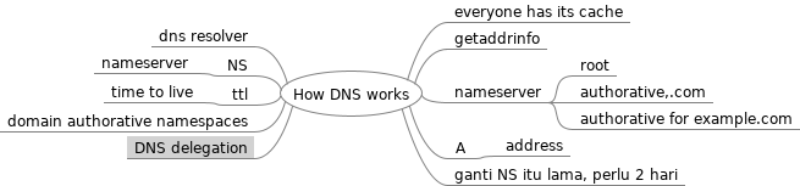
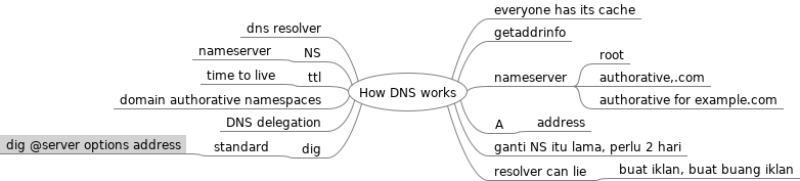
update lecture notes

Changed region(s): [[0.0, 0.0276, 1.0, 1.0]]

diff --git a/How DNS works.mm b/How DNS works.mm
@@ -21,5 +21,13 @@
 <node CREATED="1650814169514" ID="ID_1921902670" MODIFIED="1650814176871" POSITION="left" TEXT="domain authorative namespaces"/>
 <node CREATED="1650814393568" ID="ID_1388149930" MODIFIED="1650814403113" POSITION="right" TEXT="ganti NS itu lama, perlu 2 hari"/>
 <node CREATED="1650964176213" ID="ID_1716537538" MODIFIED="1650964180154" POSITION="left" TEXT="DNS delegation"/>
+<node CREATED="1651852509340" ID="ID_576816594" MODIFIED="1651852513444" POSITION="right" TEXT="resolver can lie">
+<node CREATED="1651852513744" ID="ID_619127418" MODIFIED="1651852520077" TEXT="buat iklan, buat buang iklan"/>
+</node>
+<node CREATED="1651852645871" ID="ID_738086840" MODIFIED="1651852647557" POSITION="left" TEXT="dig">
+<node CREATED="1651852649517" ID="ID_705630262" MODIFIED="1651852651968" TEXT="standard">
+<node CREATED="1651852652175" ID="ID_321550096" MODIFIED="1651852662546" TEXT="dig @server options address"/>
+</node>
+</node>
 </node>
 </map>
